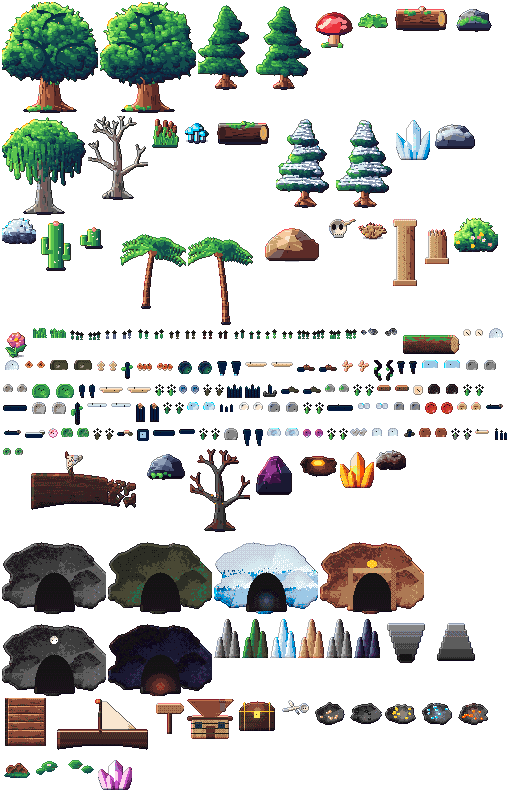
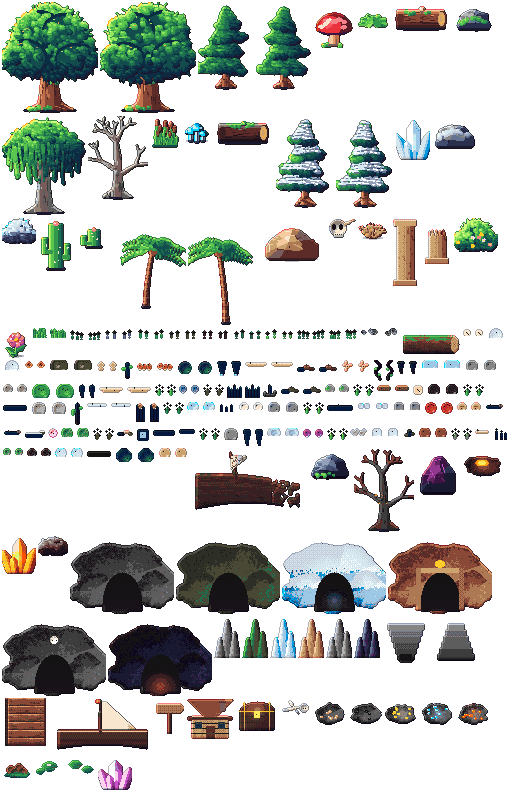
Ciclos 201-210/1000: 5 props (atlas 222) + testes rollGearDrop/hotkeys + evento onda na praia + dica

Changed region(s): [[0.0, 0.5455, 1.0, 0.7879]]

diff --git a/src/game/RegionWorld.js b/src/game/RegionWorld.js
@@ -35,12 +35,12 @@ const INTERACT_RANGE = 70;
 const PROPS = {
   [T.FOREST]: { density: 0.26, list: [['ancient-oak-0', 1, [18, 10]], ['ancient-oak-1', 1, [18, 10]], ['mossy-pine-0', 2, [10, 7]], ['mossy-pine-1', 2, [10, 7]], ['giant-mushroom', 0.6, [10, 6]], ['fern', 3], ['fallen-log', 0.6, [40, 10]], ['mossy-rock', 1, [24, 10]], ['grass-tuft-0', 4], ['grass-tuft-1', 4], ['flower-tuft-0', 1.2], ['flower-tuft-1', 1.2], ['forest-flower-0', 0.8], ['forest-flower-1', 0.8], ['pebbles-0', 0.7], ['pebbles-1', 0.7], ['mushroom-cluster-0', 0.5], ['mushroom-cluster-1', 0.5], ['berry-bush-0', 0.6], ['berry-bush-1', 0.6], ['yellow-flower-0', 0.7], ['yellow-flower-1', 0.7], ['bark-scrap-0', 0.5], ['bark-scrap-1', 0.5], ['pink-flower-0', 0.6], ['pink-flower-1', 0.6], ['rotten-log', 0.4, [30, 9]], ['red-cap-0', 0.4], ['red-cap-1', 0.4], ['forest-boulder', 0.3, [14, 8]]] },
   [T.SWAMP]: { density: 0.17, list: [['willow', 1.4, [14, 9]], ['dead-tree', 1.4, [10, 7]], ['reeds', 3], ['swamp-shroom', 1.2], ['bog-log', 0.5, [40, 10]], ['mossy-rock', 0.5, [24, 10]], ['grass-tuft-0', 3], ['flower-tuft-1', 0.6], ['swamp-flower-0', 0.6], ['swamp-flower-1', 0.6], ['mud-puddle-0', 0.5], ['mud-puddle-1', 0.5], ['twisted-root-0', 0.5], ['twisted-root-1', 0.5], ['river-stone-0', 0.5, [10, 6]], ['river-stone-1', 0.5, [10, 6]], ['blue-mushroom-0', 0.5], ['blue-mushroom-1', 0.5], ['moss-pebble-0', 0.6], ['moss-pebble-1', 0.6], ['reed-0', 0.7], ['reed-1', 0.7], ['green-stone-0', 0.5, [10, 6]], ['green-stone-1', 0.5, [10, 6]], ['lilac-flower-0', 0.5], ['lilac-flower-1', 0.5], ['swamp-root', 0.5], ['swamp-pebble-0', 0.5], ['swamp-pebble-1', 0.5]] },
-  [T.SNOW]: { density: 0.15, list: [['snow-pine-0', 2, [10, 7]], ['snow-pine-1', 2, [10, 7]], ['ice-crystal', 1, [16, 8]], ['snow-rock', 1.4, [28, 10]], ['frozen-bush', 1.4], ['grass-tuft-1', 1.5], ['snow-flower-0', 0.8], ['snow-flower-1', 0.8], ['pebbles-0', 0.5], ['pebbles-1', 0.5], ['frozen-log', 0.5, [40, 10]], ['snow-mound-0', 0.6], ['snow-mound-1', 0.6], ['ice-shard-0', 0.6, [6, 10]], ['ice-shard-1', 0.6, [6, 10]], ['ice-spike-0', 0.6, [4, 8]], ['ice-spike-1', 0.6, [4, 8]], ['white-flower-0', 0.6], ['white-flower-1', 0.6], ['blue-ice-0', 0.5], ['blue-ice-1', 0.5], ['snow-track-0', 0.6], ['snow-track-1', 0.6], ['snow-branch', 0.4, [24, 10]], ['carved-ice', 0.4, [10, 10]], ['snow-hollow-0', 0.5], ['snow-hollow-1', 0.5], ['snow-pile-0', 0.5], ['snow-pile-1', 0.5], ['blue-snow-flower-0', 0.5], ['blue-snow-flower-1', 0.5]] },
-  [T.SAND]: { density: 0.07, list: [['cactus', 2, [12, 7]], ['cactus-small', 2, [10, 6]], ['desert-rock', 1, [40, 12]], ['skull', 0.7], ['dry-bush', 2], ['ruin-pillar', 0.3, [18, 8]], ['ruin-pillar-broken', 0.4, [18, 8]], ['grass-tuft-0', 1.5], ['dune-flower-0', 0.7], ['dune-flower-1', 0.7], ['pebbles-0', 0.6], ['pebbles-1', 0.6], ['blooming-cactus', 0.4, [12, 7]], ['tall-cactus', 0.35, [10, 12]], ['footprint-0', 0.4], ['footprint-1', 0.4], ['desert-bloom-0', 0.5], ['desert-bloom-1', 0.5], ['carved-pebble-0', 0.5], ['carved-pebble-1', 0.5], ['dry-log', 0.4, [28, 8]], ['white-desert-flower-0', 0.5], ['white-desert-flower-1', 0.5]] },
+  [T.SNOW]: { density: 0.15, list: [['snow-pine-0', 2, [10, 7]], ['snow-pine-1', 2, [10, 7]], ['ice-crystal', 1, [16, 8]], ['snow-rock', 1.4, [28, 10]], ['frozen-bush', 1.4], ['grass-tuft-1', 1.5], ['snow-flower-0', 0.8], ['snow-flower-1', 0.8], ['pebbles-0', 0.5], ['pebbles-1', 0.5], ['frozen-log', 0.5, [40, 10]], ['snow-mound-0', 0.6], ['snow-mound-1', 0.6], ['ice-shard-0', 0.6, [6, 10]], ['ice-shard-1', 0.6, [6, 10]], ['ice-spike-0', 0.6, [4, 8]], ['ice-spike-1', 0.6, [4, 8]], ['white-flower-0', 0.6], ['white-flower-1', 0.6], ['blue-ice-0', 0.5], ['blue-ice-1', 0.5], ['snow-track-0', 0.6], ['snow-track-1', 0.6], ['snow-branch', 0.4, [24, 10]], ['carved-ice', 0.4, [10, 10]], ['snow-hollow-0', 0.5], ['snow-hollow-1', 0.5], ['snow-pile-0', 0.5], ['snow-pile-1', 0.5], ['blue-snow-flower-0', 0.5], ['blue-snow-flower-1', 0.5], ['clear-ice-rock-0', 0.5, [10, 6]], ['clear-ice-rock-1', 0.5, [10, 6]]] },
+  [T.SAND]: { density: 0.07, list: [['cactus', 2, [12, 7]], ['cactus-small', 2, [10, 6]], ['desert-rock', 1, [40, 12]], ['skull', 0.7], ['dry-bush', 2], ['ruin-pillar', 0.3, [18, 8]], ['ruin-pillar-broken', 0.4, [18, 8]], ['grass-tuft-0', 1.5], ['dune-flower-0', 0.7], ['dune-flower-1', 0.7], ['pebbles-0', 0.6], ['pebbles-1', 0.6], ['blooming-cactus', 0.4, [12, 7]], ['tall-cactus', 0.35, [10, 12]], ['footprint-0', 0.4], ['footprint-1', 0.4], ['desert-bloom-0', 0.5], ['desert-bloom-1', 0.5], ['carved-pebble-0', 0.5], ['carved-pebble-1', 0.5], ['dry-log', 0.4, [28, 8]], ['white-desert-flower-0', 0.5], ['white-desert-flower-1', 0.5], ['desert-stone-0', 0.5, [10, 6]], ['desert-stone-1', 0.5, [10, 6]]] },,
   [T.DUNE]: { density: 0.03, list: [['dry-bush', 1], ['skull', 0.4], ['cactus-small', 0.5, [10, 6]], ['grass-tuft-1', 1], ['dune-flower-0', 0.5], ['dune-flower-1', 0.5], ['footprint-0', 0.5], ['footprint-1', 0.5], ['small-rock-0', 0.5], ['small-rock-1', 0.5], ['dune-wave-0', 0.6], ['dune-wave-1', 0.6], ['tall-grass-0', 0.6], ['tall-grass-1', 0.6], ['dry-bush-2', 0.7], ['dune-root', 0.5], ['dune-bloom', 0.5]] },
-  [T.BEACH]: { density: 0.06, list: [['palm-0', 1.5, [8, 6]], ['palm-1', 1.5, [8, 6]], ['sea-rock', 1, [28, 10]], ['big-flower', 0.3], ['flower-tuft-0', 1.5], ['grass-tuft-0', 2], ['beach-flower-0', 0.7], ['beach-flower-1', 0.7], ['shell-0', 0.6], ['shell-1', 0.6], ['sand-ripple-0', 0.8], ['sand-ripple-1', 0.8], ['starfish-0', 0.4], ['starfish-1', 0.4], ['tide-puddle-0', 0.4], ['tide-puddle-1', 0.4], ['broken-anchor', 0.25, [12, 10]], ['spiral-shell', 0.4], ['beach-boulder-0', 0.3, [14, 8]], ['beach-boulder-1', 0.3, [14, 8]], ['sea-foam-0', 0.5], ['sea-foam-1', 0.5], ['pale-stone-0', 0.5], ['pale-stone-1', 0.5], ['tide-rock-0', 0.5, [10, 6]], ['tide-rock-1', 0.5, [10, 6]], ['pink-shell', 0.4], ['driftwood', 0.4], ['beach-gravel', 0.6], ['pale-bark', 0.4]] },
-  [T.JUNGLE]: { density: 0.17, list: [['palm-0', 1.5, [8, 6]], ['palm-1', 1.5, [8, 6]], ['tropical-bush', 3], ['big-flower', 2], ['sea-rock', 0.4, [28, 10]], ['grass-tuft-0', 3], ['grass-tuft-1', 3], ['flower-tuft-1', 2], ['jungle-flower-0', 0.8], ['jungle-flower-1', 0.8], ['vine-0', 0.7], ['vine-1', 0.7], ['jungle-root-0', 0.5], ['jungle-root-1', 0.5], ['purple-flower-0', 0.6], ['purple-flower-1', 0.6], ['jungle-log', 0.4, [32, 9]], ['purple-shroom-0', 0.4], ['purple-shroom-1', 0.4]] },
-  [T.ASH]: { density: 0.11, list: [['charred-tree', 2, [10, 7]], ['obsidian', 2, [28, 12]], ['lava-vent', 1], ['fire-crystal', 0.8, [14, 8]], ['ash-bush', 2], ['grass-tuft-1', 0.8], ['ash-flower-0', 0.5], ['ash-flower-1', 0.5], ['pebbles-0', 0.5], ['pebbles-1', 0.5], ['ember-0', 0.8], ['ember-1', 0.8], ['obsidian-shard-0', 0.5, [5, 8]], ['obsidian-shard-1', 0.5, [5, 8]], ['ember-flower-0', 0.5], ['ember-flower-1', 0.5], ['lava-rock-0', 0.5, [12, 6]], ['lava-rock-1', 0.5, [12, 6]], ['granite-0', 0.5, [12, 6]], ['granite-1', 0.5, [12, 6]], ['orange-flower-0', 0.5], ['orange-flower-1', 0.5], ['ash-spike-0', 0.5, [5, 10]], ['ash-spike-1', 0.5, [5, 10]], ['red-stone-0', 0.5, [10, 6]], ['red-stone-1', 0.5, [10, 6]]] },
+  [T.BEACH]: { density: 0.06, list: [['palm-0', 1.5, [8, 6]], ['palm-1', 1.5, [8, 6]], ['sea-rock', 1, [28, 10]], ['big-flower', 0.3], ['flower-tuft-0', 1.5], ['grass-tuft-0', 2], ['beach-flower-0', 0.7], ['beach-flower-1', 0.7], ['shell-0', 0.6], ['shell-1', 0.6], ['sand-ripple-0', 0.8], ['sand-ripple-1', 0.8], ['starfish-0', 0.4], ['starfish-1', 0.4], ['tide-puddle-0', 0.4], ['tide-puddle-1', 0.4], ['broken-anchor', 0.25, [12, 10]], ['spiral-shell', 0.4], ['beach-boulder-0', 0.3, [14, 8]], ['beach-boulder-1', 0.3, [14, 8]], ['sea-foam-0', 0.5], ['sea-foam-1', 0.5], ['pale-stone-0', 0.5], ['pale-stone-1', 0.5], ['tide-rock-0', 0.5, [10, 6]], ['tide-rock-1', 0.5, [10, 6]], ['pink-shell', 0.4], ['driftwood', 0.4], ['beach-gravel', 0.6], ['pale-bark', 0.4], ['wreck-log', 0.3, [30, 9]]] },
+  [T.JUNGLE]: { density: 0.17, list: [['palm-0', 1.5, [8, 6]], ['palm-1', 1.5, [8, 6]], ['tropical-bush', 3], ['big-flower', 2], ['sea-rock', 0.4, [28, 10]], ['grass-tuft-0', 3], ['grass-tuft-1', 3], ['flower-tuft-1', 2], ['jungle-flower-0', 0.8], ['jungle-flower-1', 0.8], ['vine-0', 0.7], ['vine-1', 0.7], ['jungle-root-0', 0.5], ['jungle-root-1', 0.5], ['purple-flower-0', 0.6], ['purple-flower-1', 0.6], ['jungle-log', 0.4, [32, 9]], ['purple-shroom-0', 0.4], ['purple-shroom-1', 0.4], ['jungle-bush-0', 0.6], ['jungle-bush-1', 0.6]] },,
+  [T.ASH]: { density: 0.11, list: [['charred-tree', 2, [10, 7]], ['obsidian', 2, [28, 12]], ['lava-vent', 1], ['fire-crystal', 0.8, [14, 8]], ['ash-bush', 2], ['grass-tuft-1', 0.8], ['ash-flower-0', 0.5], ['ash-flower-1', 0.5], ['pebbles-0', 0.5], ['pebbles-1', 0.5], ['ember-0', 0.8], ['ember-1', 0.8], ['obsidian-shard-0', 0.5, [5, 8]], ['obsidian-shard-1', 0.5, [5, 8]], ['ember-flower-0', 0.5], ['ember-flower-1', 0.5], ['lava-rock-0', 0.5, [12, 6]], ['lava-rock-1', 0.5, [12, 6]], ['granite-0', 0.5, [12, 6]], ['granite-1', 0.5, [12, 6]], ['orange-flower-0', 0.5], ['orange-flower-1', 0.5], ['ash-spike-0', 0.5, [5, 10]], ['ash-spike-1', 0.5, [5, 10]], ['red-stone-0', 0.5, [10, 6]], ['red-stone-1', 0.5, [10, 6]], ['hot-ash-0', 0.6], ['hot-ash-1', 0.6]] },
 };
 const NODE_DENSITY = 0.011;
 // Objetos que brilham no escuro (iluminam a noite e as cavernas).

diff --git a/tests/simulacao.test.js b/tests/simulacao.test.js
@@ -16,7 +16,7 @@ import { EconomySystem } from '../src/game/EconomySystem.js';
 import { CONSUMABLES, useConsumable } from '../src/data/consumables.js';
 import { DEFAULT_KEYBINDS, KEY_ACTIONS, isBindableCode, isReservedCode, normalizeKeybinds, rebind, actionForCode, loadKeybinds, saveKeybinds, keyLabel, keyCodeFor } from '../src/game/Keybinds.js';
 import { scaleEnemy } from '../src/data/enemyScaling.js';
-import { GEAR_ITEMS, RARITIES } from '../src/data/gear.js';
+import { GEAR_ITEMS, RARITIES, rollGearDrop, GEAR_SLOTS } from '../src/data/gear.js';
 import { BuffSystem, BUFF_DEFINITIONS } from '../src/game/BuffSystem.js';
 import { Bestiary } from '../src/game/Bestiary.js';
 import { Achievements, ACHIEVEMENTS } from '../src/data/achievements.js';
@@ -802,6 +802,36 @@ test('simulação: tiles de estrada (T.ROAD) existem em quantidade e são andáv
     const p = pointOnRoad(road, 0.5);
     assert.ok(Number.isFinite(p.x) && Number.isFinite(p.y), `pointOnRoad quebrou para ${road.name}`);
     assert.ok(p.x >= 0 && p.x <= WORLD_COLS * TILE && p.y >= 0 && p.y <= OVERWORLD_ROWS * TILE, `${road.name} fora do mundo`);
+  }
+});
+
+test('simulação: rollGearDrop determinístico — drop válido, slot real, raridade existe; boss garante lendário', () => {
+  const rnd = () => 0.5; // determinístico
+  for (let i = 0; i < 50; i += 1) {
+    const drops = rollGearDrop({ region: 'antiga', level: 10 }, () => (i * 0.13) % 1);
+    for (const drop of drops) {
+      assert.ok(GEAR_ITEMS[drop.id], `drop com id inexistente: ${drop.id}`);
+      assert.ok(GEAR_SLOTS.includes(GEAR_ITEMS[drop.id].slot), `slot inválido em ${drop.id}`);
+      assert.ok(RARITIES[drop.rarity], `raridade inválida em ${drop.id}: ${drop.rarity}`);
+    }
+  }
+  // boss com guaranteed → lendário
+  const bossDrops = rollGearDrop({ region: 'brasa', level: 40, boss: 'dragon', guaranteed: true }, () => 0.1);
+  assert.ok(bossDrops.length >= 1, 'boss lendário deve dropar ao menos 1 item');
+  assert.ok(bossDrops.some((d) => d.rarity === 'legendary'), 'boss garantido dropa lendário');
+  // sem chance (random alto) → vazio, sem quebrar
+  const none = rollGearDrop({ region: 'vale', level: 1 }, () => 0.999);
+  assert.ok(Array.isArray(none), 'sem drop devolve array vazio, não quebra');
+});
+
+test('simulação: consumíveis — hotkeys 1–5 únicos e cada um tem efeito definido', () => {
+  const hks = Object.values(CONSUMABLES).map((c) => c.hotkey).filter((h) => h !== undefined && h !== null);
+  assert.ok(hks.length >= 5, 'poucos atalhos de consumível');
+  assert.equal(new Set(hks).size, hks.length, 'hotkeys duplicados');
+  for (const hk of hks) assert.ok(hk >= 1 && hk <= 5, `hotkey fora de 1-5: ${hk}`);
+  for (const [key, c] of Object.entries(CONSUMABLES)) {
+    assert.ok(c.name, `${key} sem nome`);
+    assert.ok(c.effect || c.gives || c.type, `${key} sem efeito`);
   }
 });
 

diff --git a/src/art/biomeProps.js b/src/art/biomeProps.js
@@ -858,6 +858,50 @@ function flowerTuft(seed = 402) {
   return finish(p, { outline: 0.3 });
 }
 
+/** Cinza quente (brasa viva no chão). */
+function hotAsh(seed = 1171) {
+  const p = new Painter(12, 8, { transparent: true });
+  p.sphere(6, 5, 4, '#2a2026', '#3e3038');
+  p.set(5, 4, '#ff8030');
+  p.set(7, 6, '#ffb050');
+  return finish(p, { outline: 0.3 });
+}
+
+/** Pedra de gelo clara (neve). */
+function clearIceRock(seed = 1177) {
+  const p = new Painter(14, 9, { transparent: true });
+  p.sphere(7, 5, 5, '#b8d8f0', '#dceefc');
+  p.set(5, 3, '#ffffff');
+  return finish(p, { outline: 0.35 });
+}
+
+/** Tronco de naufrágio (praia). */
+function wreckLog(seed = 1181) {
+  const p = new Painter(26, 10, { transparent: true });
+  const wood = ['#6e5a40', '#8a745a'];
+  p.rect(2, 4, 22, 4, shade([wood[0], wood[1]], 0.5));
+  p.set(2, 4, '#4a3a28'); p.set(23, 7, '#4a3a28');
+  p.set(10, 5, '#9a8468');
+  return finish(p, { outline: 0.35 });
+}
+
+/** Arbusto denso de selva. */
+function jungleBush(seed = 1187) {
+  const p = new Painter(20, 14, { transparent: true });
+  p.sphere(10, 8, 7, shade(['#1e3a14', '#3f6e2c'], 0.5), '#2e5a24');
+  p.set(7, 5, '#57a050');
+  p.set(13, 10, '#1a2e10');
+  return finish(p, { outline: 0.35 });
+}
+
+/** Pedra do deserto (ocre). */
+function desertStone(seed = 1193) {
+  const p = new Painter(14, 9, { transparent: true });
+  p.sphere(7, 5, 5, '#b89a5e', '#d0b878');
+  p.set(5, 3, '#e8d09a');
+  return finish(p, { outline: 0.35 });
+}
+
 /** Pedra avermelhada (cinzas). */
 function redStone(seed = 1139) {
   const p = new Painter(14, 9, { transparent: true });
@@ -1853,6 +1897,15 @@ const PAINTED_ENTRIES = [
   { name: 'dune-bloom', draw: () => duneBloom(1157) },
   { name: 'swamp-pebble-0', draw: () => swampPebble(1163) },
   { name: 'swamp-pebble-1', draw: () => swampPebble(1167) },
+  { name: 'hot-ash-0', draw: () => hotAsh(1171) },
+  { name: 'hot-ash-1', draw: () => hotAsh(1173) },
+  { name: 'clear-ice-rock-0', draw: () => clearIceRock(1177) },
+  { name: 'clear-ice-rock-1', draw: () => clearIceRock(1179) },
+  { name: 'wreck-log', draw: () => wreckLog(1181) },
+  { name: 'jungle-bush-0', draw: () => jungleBush(1187) },
+  { name: 'jungle-bush-1', draw: () => jungleBush(1189) },
+  { name: 'desert-stone-0', draw: () => desertStone(1193) },
+  { name: 'desert-stone-1', draw: () => desertStone(1197) },
   { name: 'shipwreck', draw: shipwreck },
   { name: 'sea-rock', draw: seaRock },
   { name: 'charred-tree', draw: () => deadTree(['#0c0808', '#1a1010', '#2a1a16', '#3a2620', '#4a3228'], true) },

diff --git a/src/game/GameScene.js b/src/game/GameScene.js
@@ -1682,7 +1682,12 @@ export class GameScene extends Phaser.Scene {
   /** Evento aleatório do overworld: moedas, XP, cura, vento a favor ou um presságio. */
   randomEvent() {
     const roll = Math.random();
-    if (roll < 0.03 && this.timeState?.phase === 'night' && this.regionWorld?.currentRegion?.() === 'areia') {
+    if (roll < 0.025 && this.timeState?.phase === 'day' && terrainAt(this.player.x, this.player.y + TILE * 1.2) === T.SEA) {
+      const xp = Phaser.Math.Between(5, 10);
+      this.grantExperience(xp);
+      this.effects.spawnDamage(this.player.x, this.player.y - 30, '🌊', '#8ad8f0');
+      this.ui.showMessage(`🌊 Evento: uma onda molhou seus pés na praia! +${xp} XP`);
+    } else if (roll < 0.03 && this.timeState?.phase === 'night' && this.regionWorld?.currentRegion?.() === 'areia') {
       const coins = Phaser.Math.Between(8, 15);
       this.economy.addCoins(coins);
       this.audio.playCoin();

diff --git a/src/game/Splash.js b/src/game/Splash.js
@@ -34,7 +34,8 @@ const TIPS = [
   'Em dias de sol aberto ☀ o calor rende um tiquinho de XP.',
   'Em noites limpas ⭐ podem cair estrelas cadentes com moeditas.',
   'No brejo, um sapo 🐸 pode te beijar e devolver um pouco de vida.',
-  'À noite no deserto, um escorpião dourado 🦂 pode deixar moeditas para trás.'
+  'À noite no deserto, um escorpião dourado 🦂 pode deixar moeditas para trás.',
+  'Na beira do mar, a onda 🌊 às vezes molha seus pés e dá um pouco de XP.'
 ];
 
 export function setupSplash() {
